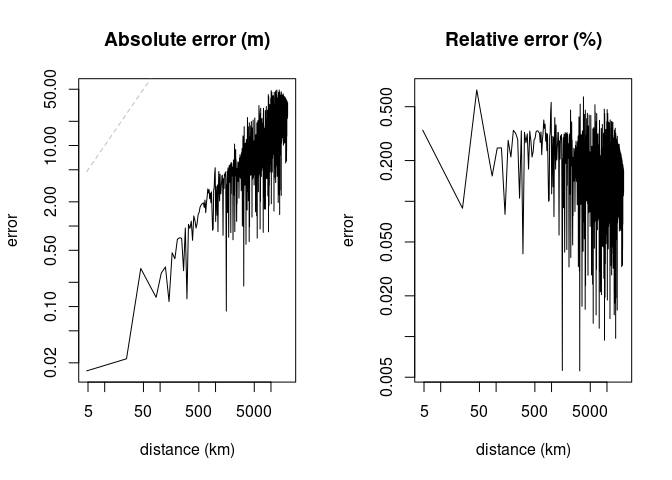
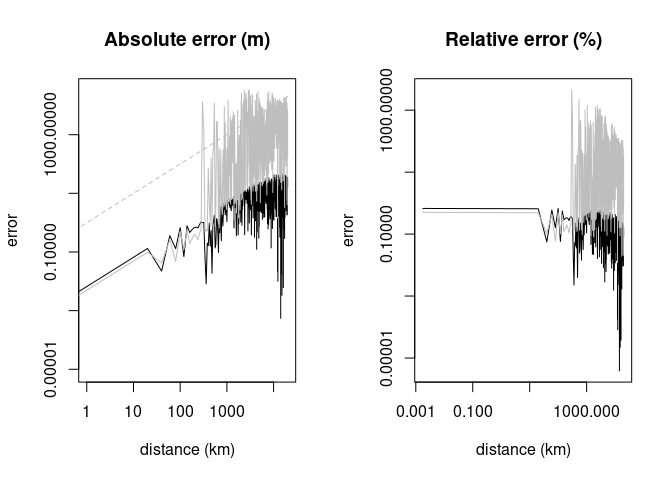
update readme fig

diff --git a/README.md b/README.md
@@ -82,11 +82,11 @@ nrow (x); length (d); head (d)
 #> [1] 10
 #>          [,1]
 #> [1,]       NA
-#> [2,]  2576108
-#> [3,]  8883320
-#> [4,] 10675957
-#> [5,]  6641753
-#> [6,]  4512907
+#> [2,] 10858264
+#> [3,]  3534345
+#> [4,]  2582744
+#> [5,] 10944562
+#> [6,]  3053632
 ```
 
 The `pad` argument pre-pends an `NA` to return a vector commensurate
@@ -130,8 +130,8 @@ rbenchmark::benchmark (replications = 10, order = "test",
                       geo_dist (x)) [, 1:4]
 #> Linking to GEOS 3.6.2, GDAL 2.3.0, proj.4 5.0.1
 #>           test replications elapsed relative
-#> 2  geo_dist(x)           10   5.319     1.00
-#> 1 sf_dist(xsf)           10  15.319     2.88
+#> 2  geo_dist(x)           10   5.405    1.000
+#> 1 sf_dist(xsf)           10  16.149    2.988
 ```
 
 Confirm that the two give almost identical results:
@@ -159,7 +159,7 @@ rbenchmark::benchmark (replications = 10, order = "test",
                        fgeosph ()) [, 1:4]
 #>         test replications elapsed relative
 #> 1 fgeodist()           10   0.005      1.0
-#> 2  fgeosph()           10   0.006      1.2
+#> 2  fgeosph()           10   0.007      1.4
 ```
 
 The [mapbox cheap ruler
@@ -180,42 +180,20 @@ rbenchmark::benchmark (replications = 10, order = "test",
                        d3 <- geodist (x, measure = "vincenty"),
                        d4 <- geodist (x, measure = "geodesic")) [, 1:4]
 #>                                      test replications elapsed relative
-#> 1     d1 <- geodist(x, measure = "cheap")           10   0.112    1.000
-#> 2 d2 <- geodist(x, measure = "haversine")           10   0.171    1.527
-#> 3  d3 <- geodist(x, measure = "vincenty")           10   0.232    2.071
-#> 4  d4 <- geodist(x, measure = "geodesic")           10   3.096   27.643
+#> 1     d1 <- geodist(x, measure = "cheap")           10   0.118    1.000
+#> 2 d2 <- geodist(x, measure = "haversine")           10   0.179    1.517
+#> 3  d3 <- geodist(x, measure = "vincenty")           10   0.236    2.000
+#> 4  d4 <- geodist(x, measure = "geodesic")           10   3.142   26.627
 ```
 
 Finally, what everybody probably most wants to know … Is the extra time
 to calculate highly accurate geodesic distances really worthwhile? The
 answer depends of course on the scale of distances involved, but the
 following graph provides a visual aid to answering this question.
+![](fig/README-plot-1.png)
 
-``` r
-n <- 1e3
-x <- cbind (-180 + 360 * runif (n), -90 + 180 * runif (n))
-colnames (x) <- c ("x", "y")
-d0 <- geodist (x, measure = "geodesic") # reference dists
-d1 <- abs (geodist (x, measure = "vincenty") - d0)
-d0 <- d0 [upper.tri (d0)]
-indx <- order (d0)
-d0 <- d0 [indx]
-d1mod <- approx (d0, d1 [upper.tri (d1)] [indx], n = n)
-d1mod <- lapply (d1mod, function (i) i / 1000) # convert to km
-
-par (mfrow = c (1, 2))
-plot (d1mod$x, d1mod$y, "l", log = "xy",
-      xlab = "distance (km)", ylab = "error", main = "Absolute error (m)")
-lines (d1mod$x, d1mod$x, col = "grey", lty = 2)
-
-d1mod <- approx (d0, d1 [upper.tri (d1)] [indx] / d0, n = n)
-plot (d1mod$x / 1000, 100 * d1mod$y, "l", log = "xy",
-      xlab = "distance (km)", ylab = "error", main = "Relative error (%)")
-```
-
-![](fig/README-plot-1.png) The absolute error increases with
-increasing distance as expected, yet the relative error remains
-generally constant at around 0.2%.
+The absolute error increases with increasing distance as expected, yet
+the relative error remains generally constant at around 0.2%.
 
 ### Test Results
 
@@ -226,15 +204,15 @@ require (testthat)
 
 ``` r
 date()
-#> [1] "Fri Jun 29 10:33:44 2018"
+#> [1] "Fri Jun 29 10:47:36 2018"
 devtools::test("tests/")
 #> Loading geodist
 #> Testing geodist
 #> ✔ | OK F W S | Context
-✖ | 38 1     | geodist [0.1 s]
+✔ | 39       | geodist [0.1 s]
 #> 
 #> ══ Results ════════════════════════════════════════════════════════════════
-#> Duration: 0.1 s
+#> Duration: 0.2 s
 #> 
 #> OK:       39
 #> Failed:   0
